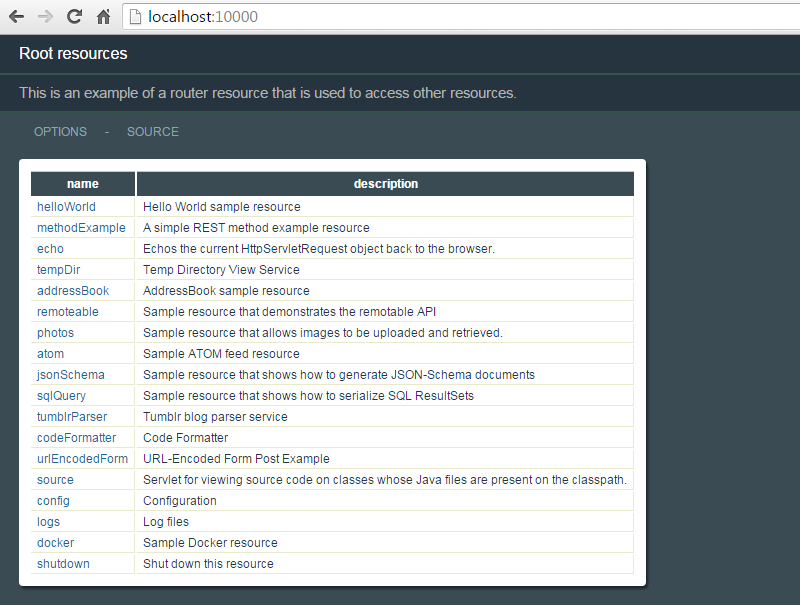
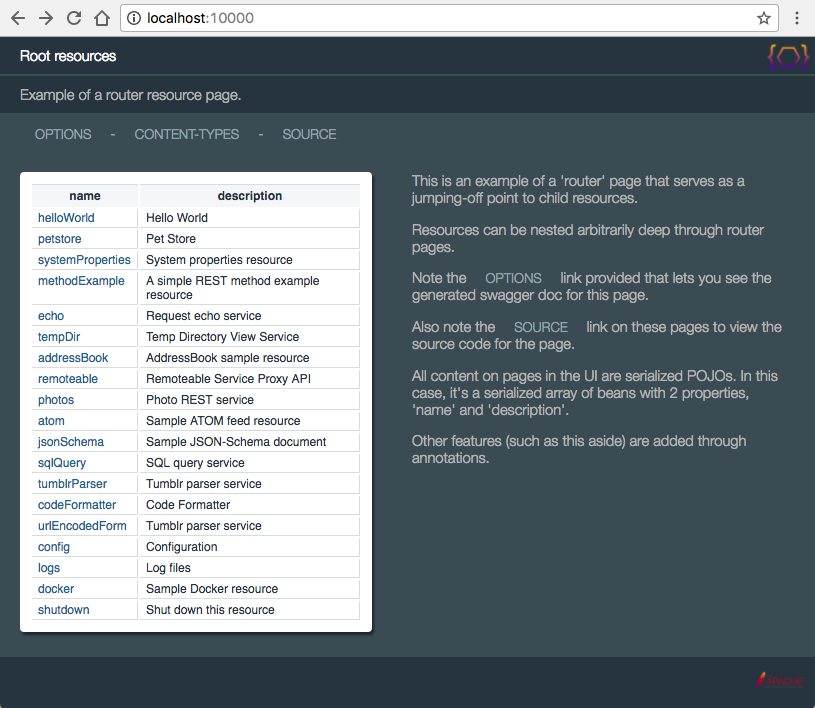
Update about page.

diff --git a/content/about.html b/content/about.html
@@ -911,16 +911,40 @@
 	</p>
 	<br><br><hr>
 	<p>	
-		Navigatable hierarchies of REST resources are easy to set up either programmatically or through annotations:
+		Navigatable hierarchies of REST resources are easy to set up either programmatically or through annotations.
+		<br>
+		The following example is the <code>RootResources</code> class from the REST examples showing how to construct
+		a grouping of resources using the <code>children()</code> annotation:
 	</p>
 	<p class='bcode'>
 	<ja>@RestResource</ja>(
 		path=<js>"/"</js>,
 		title=<js>"Root resources"</js>,
-		description=<js>"This is an example of a router resource that is used to access other resources."</js>,
-		pageLinks=<js>"{options:'?method=OPTIONS',source:'$C{Source/gitHub}/org/apache/juneau/rest/example/RootResources.java'}"</js>,
+		description=<js>"Example of a router resource page."</js>,
+		widgets={
+			PoweredByApacheWidget.<jk>class</jk>,
+			ContentTypeMenuItem.<jk>class</jk>
+		},
+		htmldoc=<ja>@HtmlDoc</ja>(
+			links=<js>"{"</js>
+				+ <js>"options:'?method=OPTIONS',"</js>
+				+ <js>"contentTypes:'$W{contentTypeMenuItem}',"</js>
+				+ <js>"source:'$C{Source/gitHub}/org/apache/juneau/examples/rest/RootResources.java'"</js>
+			+ <js>"}"</js>,
+			aside=<js>""</js>
+				+ <js>"&lt;div style='max-width:400px' class='text'&gt;"</js>
+				+ <js>"	&lt;p&gt;This is an example of a 'router' page that serves as a jumping-off point to child resources.&lt;/p&gt;"</js>
+				+ <js>"	&lt;p&gt;Resources can be nested arbitrarily deep through router pages.&lt;/p&gt;"</js>
+				+ <js>"	&lt;p&gt;Note the &lt;span class='link'&gt;OPTIONS&lt;/span&gt; link provided that lets you see the generated swagger doc for this page.&lt;/p&gt;"</js>
+				+ <js>"	&lt;p&gt;Also note the &lt;span class='link'&gt;SOURCE&lt;/span&gt; link on these pages to view the source code for the page.&lt;/p&gt;"</js>
+				+ <js>"	&lt;p&gt;All content on pages in the UI are serialized POJOs.  In this case, it's a serialized array of beans with 2 properties, 'name' and 'description'.&lt;/p&gt;"</js>
+				+ <js>"	&lt;p&gt;Other features (such as this aside) are added through annotations.&lt;/p&gt;"</js>
+				+ <js>"&lt;/div&gt;"</js>,
+			footer=<js>"$W{poweredByApache}"</js>
+		),
 		children={
 			HelloWorldResource.<jk>class</jk>,
+			PetStoreResource.<jk>class</jk>,
 			SystemPropertiesResource.<jk>class</jk>,
 			MethodExampleResource.<jk>class</jk>,
 			RequestEchoResource.<jk>class</jk>,
